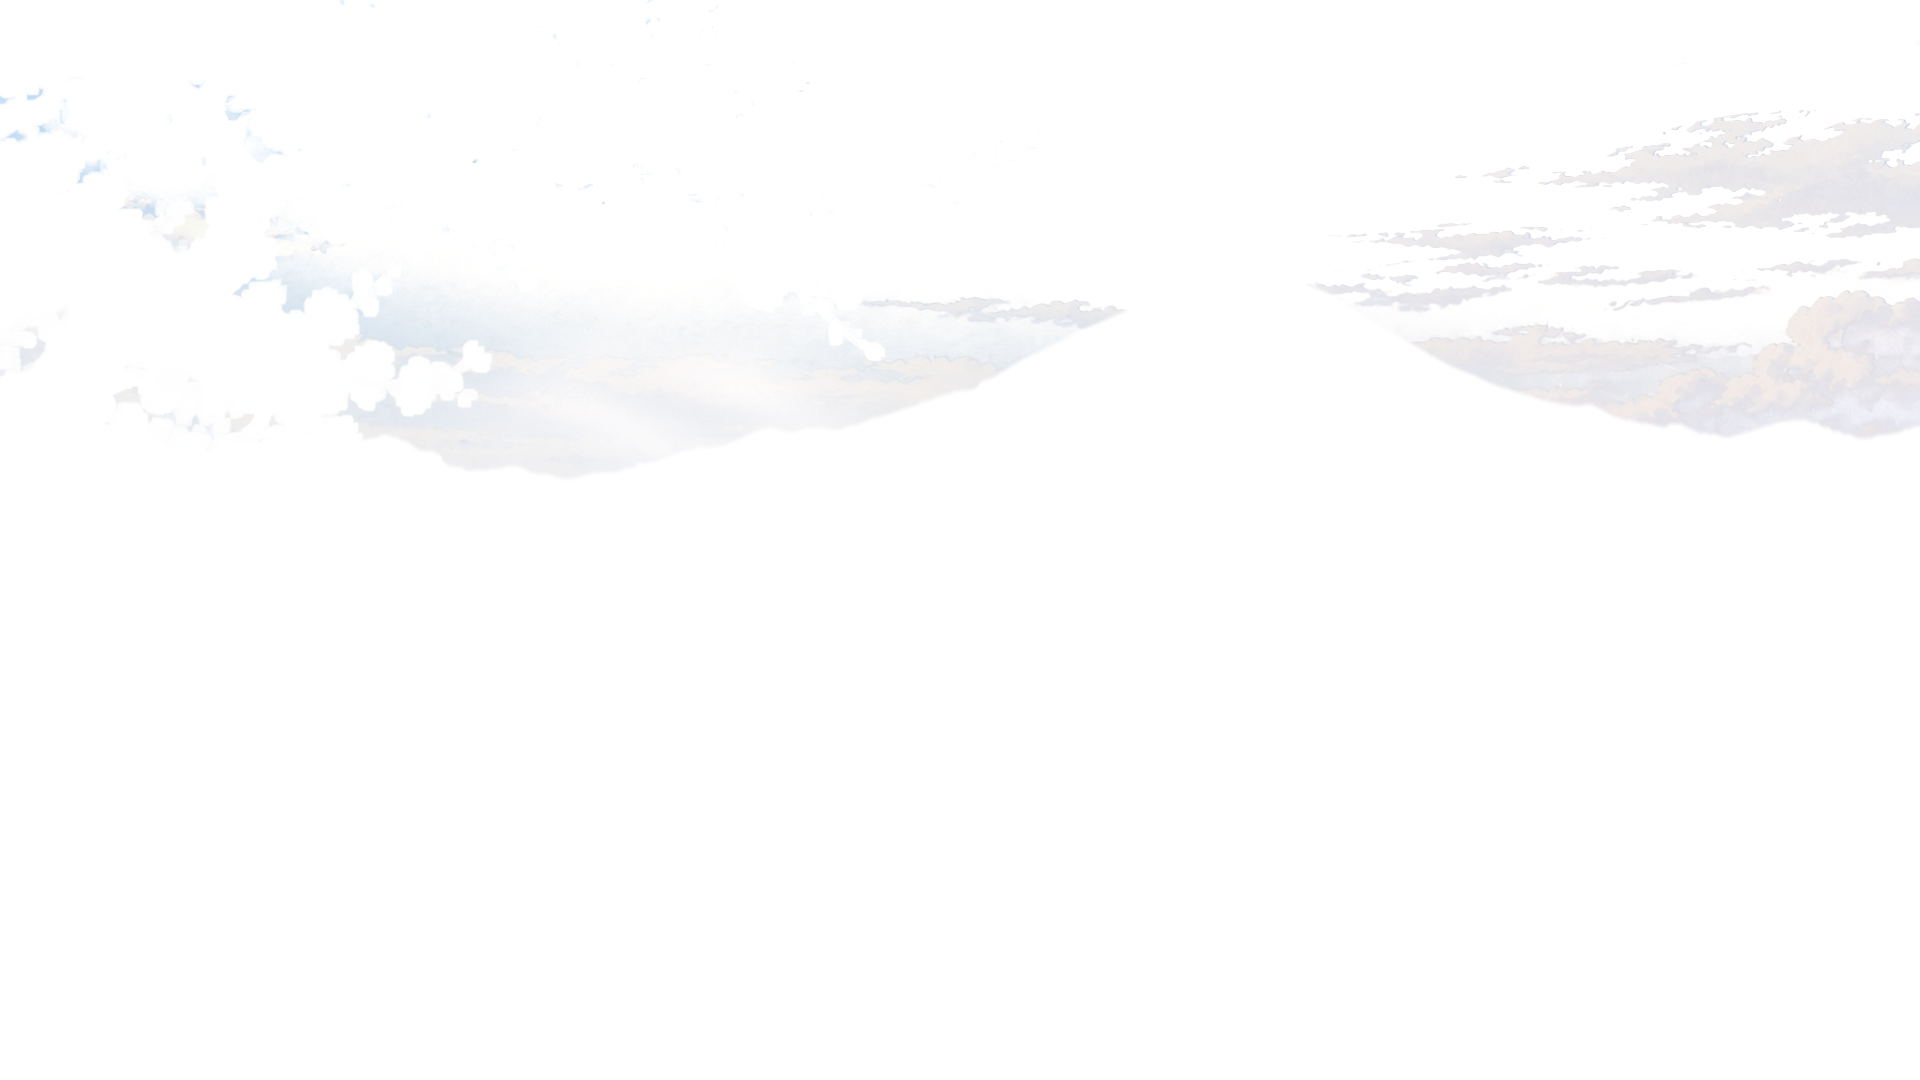
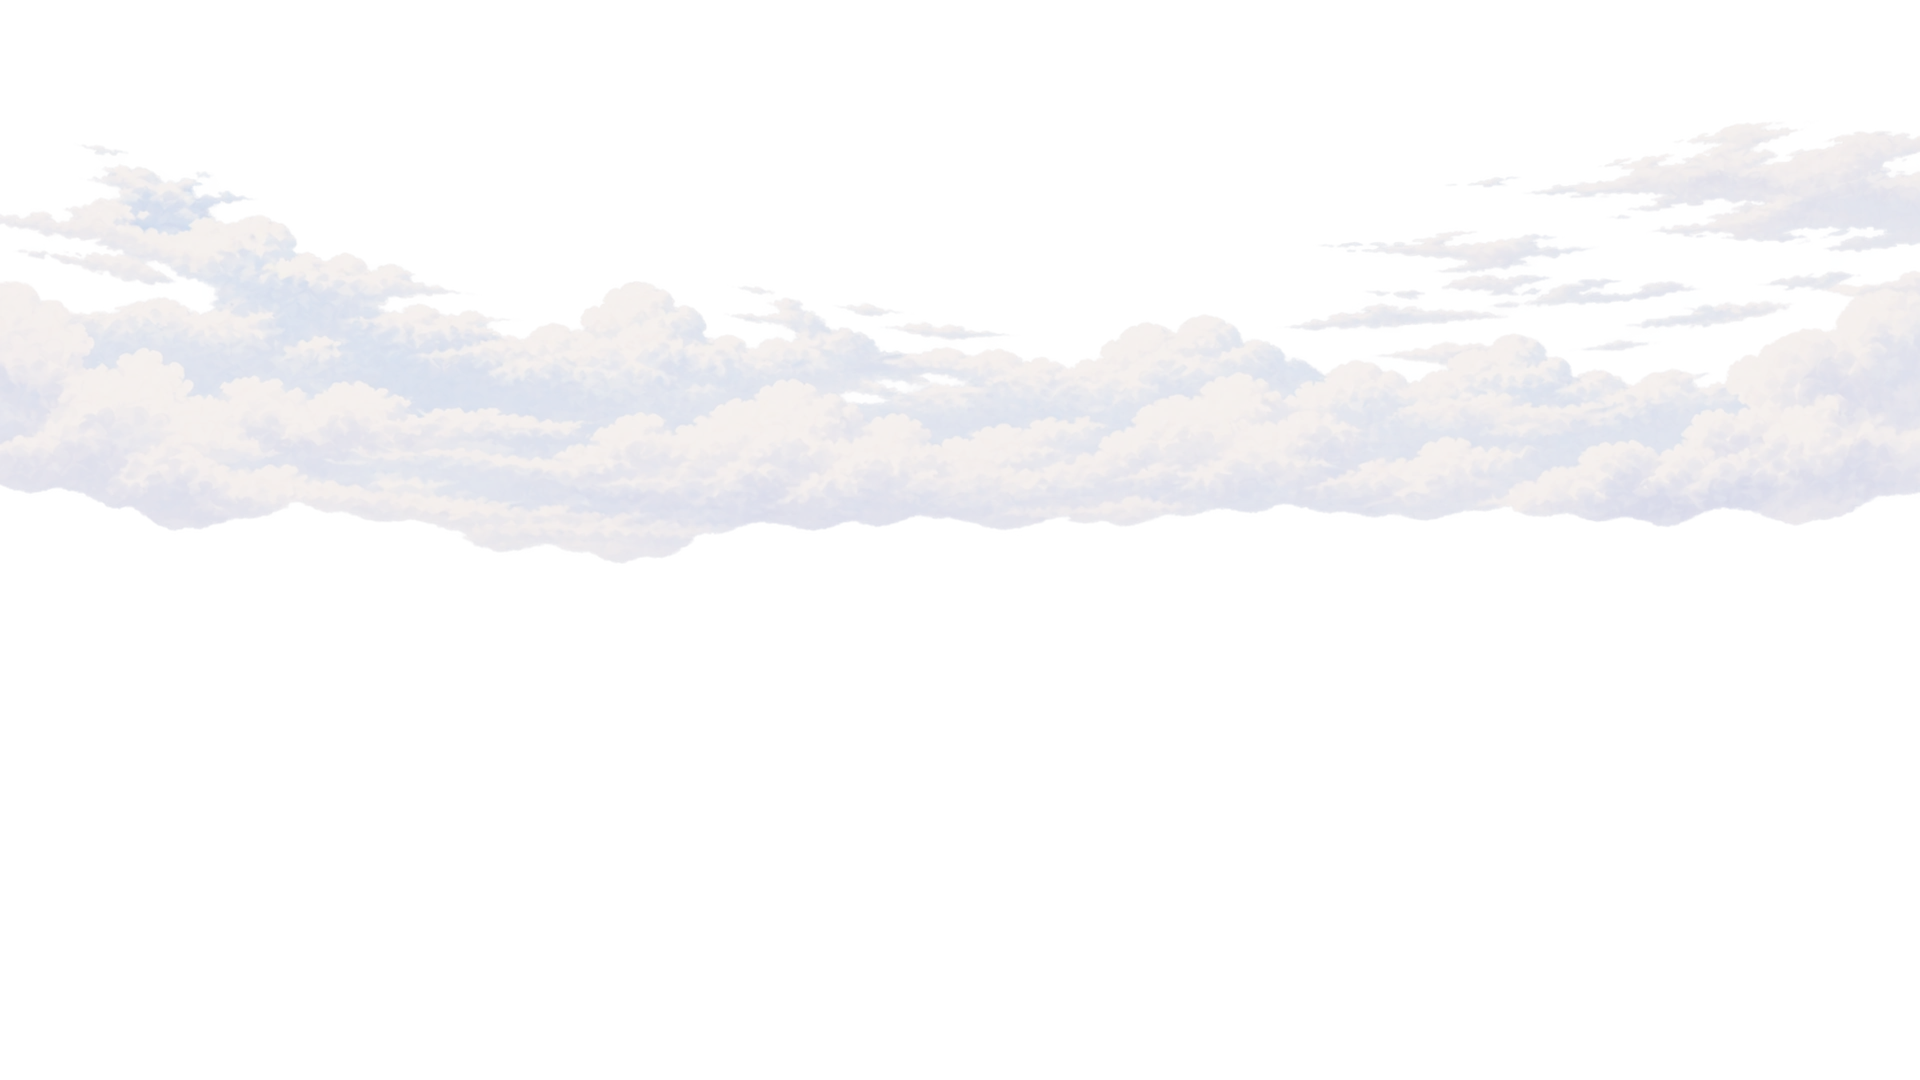
:zap: Updates for conditions

diff --git a/tools/rebuild_clear_clouds.py b/tools/rebuild_clear_clouds.py
@@ -1,0 +1,56 @@
+"""Grade a repaired transparent cloud master into clear/hazy plates (Pillow, NumPy)."""
+
+import argparse
+from io import BytesIO
+from pathlib import Path
+import subprocess
+
+import numpy as np
+from PIL import Image
+
+
+ROOT = Path(__file__).resolve().parents[1]
+ORIGINAL = "7b4dda18c2cadac4ecfb66182ced22c5ec303904"
+HOURS = ("0000", "0500", "0600", "0700", "0800", "1700", "1800", "1900")
+
+
+def original(hour):
+    path = f"resources/layers/03-clouds/clear/{hour}.webp"
+    data = subprocess.check_output(["git", "show", f"{ORIGINAL}:{path}"], cwd=ROOT)
+    return np.asarray(Image.open(BytesIO(data)).convert("RGBA"))
+
+
+def rebuild(source):
+    # Recover the existing hourly palette from matching cloud pixels, avoiding
+    # the contaminated extraction fringes. Keep all grading offline.
+    daytime = original("0800")
+    sample = (daytime[:, :, 3] > 200) & (daytime[:, :, :3].min(axis=2) > 100)
+    design = np.column_stack((daytime[:, :, :3][sample], np.ones(sample.sum())))
+    master = Image.open(source).convert("RGBA").resize((1920, 1080), Image.Resampling.LANCZOS)
+    pixels = np.asarray(master).copy()
+    # Discard invisible alpha noise from the generated transparent background.
+    pixels[:, :, 3][pixels[:, :, 3] <= 2] = 0
+    colors = np.column_stack((pixels[:, :, :3].reshape(-1, 3), np.ones(1920 * 1080)))
+    total = 0
+    for hour in HOURS:
+        target = original(hour)[:, :, :3][sample]
+        transform = np.linalg.lstsq(design, target, rcond=None)[0]
+        error = np.abs(design @ transform - target).mean()
+        rgb = np.clip(np.rint(colors @ transform), 0, 255).astype(np.uint8).reshape(1080, 1920, 3)
+        for weather, opacity in (("clear", 1.0), ("hazy", 0.4)):
+            rgba = pixels.copy()
+            rgba[:, :, :3] = rgb
+            rgba[:, :, 3] = np.rint(pixels[:, :, 3] * opacity).astype(np.uint8)
+            path = ROOT / f"resources/layers/03-clouds/{weather}/{hour}.webp"
+            encoded = BytesIO()
+            Image.fromarray(rgba).save(encoded, format="WEBP", quality=95, method=6, lossless=False)
+            path.write_bytes(encoded.getvalue())
+            total += path.stat().st_size
+        print(f"{hour}: hourly palette fit mean error {error:.2f}/255")
+    print(f"16 cloud plates: {total:,} bytes")
+
+
+if __name__ == "__main__":
+    parser = argparse.ArgumentParser(description=__doc__)
+    parser.add_argument("source", type=Path, help="Repaired transparent daytime cloud master")
+    rebuild(parser.parse_args().source)

diff --git a/tools/generate_weather_effects.py b/tools/generate_weather_effects.py
@@ -1,9 +1,48 @@
-"""Rebuild the small, vertically seamless rain tile (requires Pillow)."""
+"""Rebuild the small, vertically seamless precipitation tiles (requires Pillow)."""
 
 from pathlib import Path
 from random import Random
 
-from PIL import Image
+from PIL import Image, ImageFilter, ImageOps
+
+
+def soften_snowflake(sprite):
+    """Fill crystal branches and feather alpha for both winter and weather snow."""
+    size = max(sprite.size)
+    blur = max(0.9, size * 0.13)
+    padding = round(blur * 3) + 2
+    alpha = ImageOps.expand(sprite.getchannel("A"), border=padding)
+    alpha = alpha.filter(ImageFilter.MaxFilter(2 * max(1, round(size * 0.08)) + 1))
+    alpha = alpha.filter(ImageFilter.GaussianBlur(blur))
+    # Constant colour under feathered alpha avoids dark rims.
+    flake = Image.new("RGBA", alpha.size, (237, 243, 255, 0))
+    flake.putalpha(alpha)
+    return flake, padding
+
+
+def make_snow():
+    # Reuse the authored snowflake, with varied sizes, angles and softness.
+    # The 300 x 560 tile is drawn at 600 x 1120 with room for vertical lilt.
+    effects = Path(__file__).resolve().parents[1] / "resources/effects"
+    # Keep the original separate from runtime sprites so rebuilds never blur twice.
+    source = Image.open(Path(__file__).with_name("snowflake-source.png")).convert("RGBA")
+    tile = Image.new("RGBA", (300, 560))
+    random = Random(1192)
+    for _ in range(36):
+        size = random.randrange(5, 17)
+        flake = source.rotate(random.randrange(360), Image.Resampling.BICUBIC)
+        flake = flake.resize((size, size), Image.Resampling.LANCZOS)
+        flake, padding = soften_snowflake(flake)
+        opacity = random.uniform(0.45, 0.9)
+        flake.putalpha(flake.getchannel("A").point(lambda a: round(a * opacity)))
+        x = random.randrange(6, tile.width - size - 6)
+        y = random.randrange(tile.height)
+        # Wrap flakes across the vertical seam instead of clipping their shapes.
+        for offset in (-tile.height, 0, tile.height):
+            tile.alpha_composite(flake, (x - padding, y - padding + offset))
+    destination = effects / "snow.png"
+    tile.save(destination, optimize=True)
+    print(f"{destination}: {destination.stat().st_size:,} bytes")
 
 
 def make_rain():
@@ -38,3 +77,4 @@ def make_rain():
 
 if __name__ == "__main__":
     make_rain()
+    make_snow()

diff --git a/tools/extract_foliage.py b/tools/extract_foliage.py
@@ -16,6 +16,8 @@ import subprocess
 
 from PIL import Image, ImageChops, ImageDraw
 
+from generate_weather_effects import soften_snowflake
+
 
 ROOT = Path(__file__).resolve().parents[1]
 SOURCE_REVISION = "0dd59aa06ef6a315521582f8df6da03a194456ca"
@@ -207,6 +209,8 @@ def make_snowflake(source):
         raise ValueError("Snowflake source must have a transparent background")
     sprite = sprite.crop(bounds)
     sprite.thumbnail((60, 60), Image.Resampling.LANCZOS)
+    sprite, _ = soften_snowflake(sprite)
+    sprite.thumbnail((64, 64), Image.Resampling.LANCZOS)
     tile = Image.new("RGBA", (64, 64))
     tile.paste(sprite, ((64 - sprite.width) // 2, (64 - sprite.height) // 2))
     save_lighting_variants(tile, ROOT / "resources/effects/foliage/winter")

diff --git a/README.md b/README.md
@@ -29,6 +29,15 @@ drawn at 480 x 1080. The skin reuses it in four strips at different speeds with
 two vertically adjacent copies per strip, following the holiday falling-texture
 pattern. Rebuild it with `python tools/generate_weather_effects.py` (Pillow).
 
+Snow weather reuses the rain cloud and lake plates with a separate animated
+`resources/effects/snow.png` tile (300 x 560, about 14 KiB). The weather tile
+reuses the existing winter snowflake sprite at varied sizes, angles and opacity,
+with filled crystal branches and blurred alpha edges for soft, fluffy flakes.
+Four strips fall over 16–22 seconds with independent sine sways and a small
+vertical lilt; overscan keeps their edges covered. The same generator rebuilds
+both precipitation tiles. Snow and mixed snow conditions select this effect in
+every season, and the splash preview includes a snow option.
+
 Thunderstorms use rain cloud/lake plates between flashes. The existing storm
 clouds and lake plates appear together in a short double flash every ten seconds,
 reusing the authored lightning bolts and matching reflections. A blue-white wash
@@ -36,7 +45,7 @@ reuses the skin's existing white texture to briefly light the scene. Static rain
 conditions plates are replaced by the animated tile. No animation frames or
 additional full-screen images are required.
 
-Cloudy, rainy and thunderstorm conditions reuse the hourly cloud plate in a slow,
+All weather conditions reuse their hourly cloud plate in a slow,
 continuous rightward loop behind the mountains (6.4 pixels per second). Original and horizontally
 mirrored copies meet at matching edges; two identical pairs cover the full
 3840-pixel loop so the restart has exactly the same image as the end. A faint,
@@ -44,6 +53,13 @@ vertically flipped and compressed copy moves in sync over the lake, below the
 foreground trees. The shoreline stays fixed. The cloud
 animation adds no image assets or animation frames. Foreground haze uses the
 same loop at half the speed during hazy conditions.
+
+Clear and hazy cloud plates use a repaired continuous cloud bank, with the old
+mountain and foliage cutouts filled for scrolling. One generated transparent
+daytime master supplies both weather sets and their eight existing hourly
+palettes; hazy retains 40% cloud opacity. These replace the existing WebP plates
+without adding runtime layers. The [repair prompt](tools/cloud-repair-prompt.md)
+records the source and offline rebuild command.
 
 Lake ripples reuse the existing hourly lake texture with two tiny 4 x 1080
 diffuse masks, `resources/effects/lake-odd.png` and `lake-even.png`. The masks
@@ -61,8 +77,9 @@ the static artwork. Summer has no detached pieces, so its sprite is clipped from
 an attached green leaf while its foreground stays unchanged. Each shape has eight
 tiny PNG lighting variants using the original scene's night and twilight grades;
 there are no animation frames or additional full-screen textures. Winter uses
-a generated six-armed snowflake at 64 x 64 pixels; its eight lighting variants
-total approximately 41 KiB. Cleaning the
+a soft, fluffy snow particle at 64 x 64 pixels, derived from the generated
+snowflake with the same branch filling and alpha blur used by falling snow;
+its eight lighting variants total approximately 31 KiB. Cleaning the
 foreground and lighting plates offsets the sprites' storage cost.
 
 The skin reuses each seasonal sprite in six particles with different sizes,
@@ -70,7 +87,7 @@ diagonal paths and timings. A smooth lilt periodically lifts each particle again
 its gentle descent, while rotation and foreshortening add flutter. Particles fade
 before their paths restart. They sit above the static lighting plate and use the
 matching hourly sprite so moving pieces retain their correct lighting anywhere
-on screen. Winter reuses the same motion for snowflakes. Rain and thunderstorms
+on screen. Winter reuses the same motion for snowflakes. Rain, snow and thunderstorms
 hide these seasonal particles. The preview's season selector updates them while
 the window remains open.
 
@@ -83,5 +100,7 @@ remains identical. Where a removed piece reveals terrain, the script repairs its
 lighting alpha against the original scene's land grade.
 
 Rebuild only the winter lighting variants with
-`python tools/extract_foliage.py --snowflake-source resources/effects/foliage/winter/0800.png`.
+`python tools/extract_foliage.py --snowflake-source tools/snowflake-source.png`.
+Both snow generators read this preserved original so repeated rebuilds do not
+progressively blur the runtime artwork.
 The [snowflake prompt](tools/snowflake-prompt.md) records its image-generation source.

diff --git a/tools/cloud-repair-prompt.md b/tools/cloud-repair-prompt.md
@@ -1,0 +1,20 @@
+# Clear and hazy cloud repair
+
+Created with the built-in ImageGen tool on 2026-10-21, editing the original
+`resources/layers/03-clouds/clear/0800.webp` from revision
+`7b4dda18c2cadac4ecfb66182ced22c5ec303904` with transparent output.
+
+The installed daytime plate is the compressed master. Rebuild the hourly clear
+and hazy variants with `python tools/rebuild_clear_clouds.py <master.png>`.
+The script fits the existing hourly palettes from the recorded original Git
+revision and retains hazy's 40% opacity. The original generated PNG is an
+authoring intermediate; only the 16 replacement WebP plates are shipped.
+
+## Prompt
+
+Use case: precise-object-edit
+Asset type: transparent scrolling cloud layer for an illustrated landscape, wide 1920 x 1080 canvas.
+Edit target: the attached daytime cloud plate. It currently has a triangular mountain-shaped hole around the middle-right, many tree-shaped holes and tiny blue/yellow extraction fringes. These are masking defects, not intentional cloud shapes.
+Primary request: repair this into a clean, continuous illustrated cloud bank suitable for horizontal movement behind separately drawn mountains. Fill the central triangular missing area with matching white and pale blue clouds, naturally joining the cloud masses on either side. Remove all foliage-shaped holes, blue sky debris, yellow/red fringes and dark purple blemishes. Reconstruct clean, naturally feathered cloud edges.
+Preserve: the hand-painted anime landscape style, predominantly white and pale cool blue clouds, airy sparse wisps in the upper-right, the low horizontal cloud bank roughly between 25% and 49% of the canvas height. Keep the rest of the upper sky and lower half genuinely transparent. Keep similar cloud density and scale and the original wide composition; do not add an opaque sky.
+Constraints: clouds only on real transparency; no mountains, terrain, trees, sun, moon, lake, text, watermark, checkerboard or colored background. The lower cloud bank must flow continuously across the FULL image width with no terrain silhouette cutout. Natural soft cloud outline at bottom, not a straight cropped edge. No sharp vertical cutoffs or abrupt changes at the left/right boundaries; the two boundaries should have similar cloud density and height for a mirrored scrolling tile. Output a single transparent 1920x1080 cloud layer.

diff --git a/tools/snowflake-prompt.md b/tools/snowflake-prompt.md
@@ -1,6 +1,9 @@
 # Winter snowflake sprite
 
 Generated with the built-in imagegen tool, with a transparent background.
+The original is preserved in `tools/snowflake-source.png`. The rebuild scripts
+fill its crystal branches and blur its alpha into soft, fluffy snow, shared by
+the winter particles and the falling weather tile.
 The runtime artwork is reduced to 64 x 64 pixels with transparent padding and
 uses the existing scene-authoring grade function for eight lighting variants in
 `resources/effects/foliage/winter/`. No animation frames are stored.
